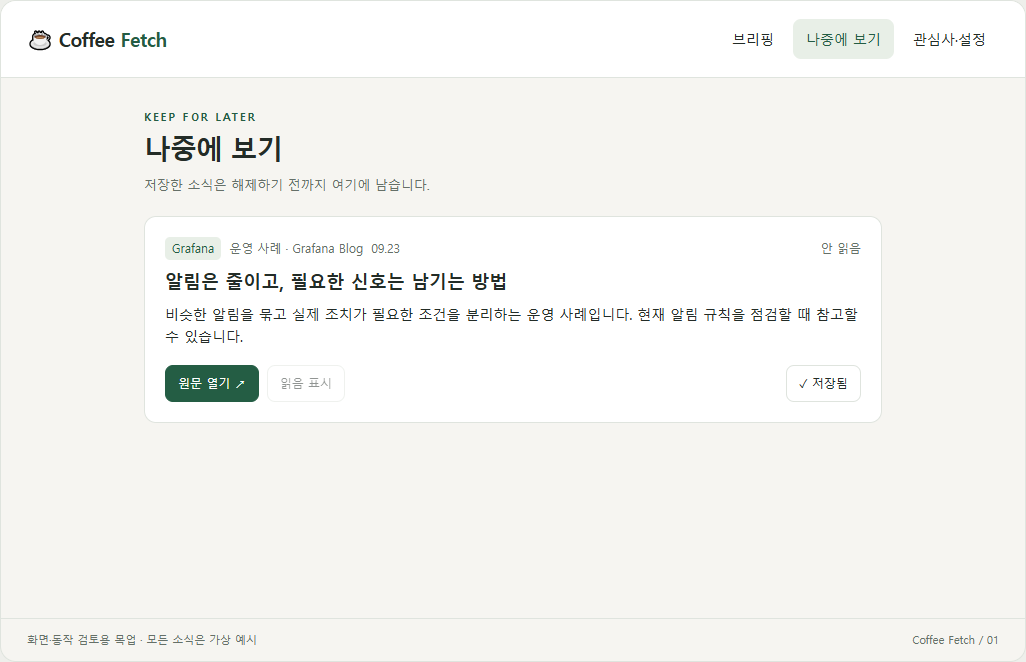
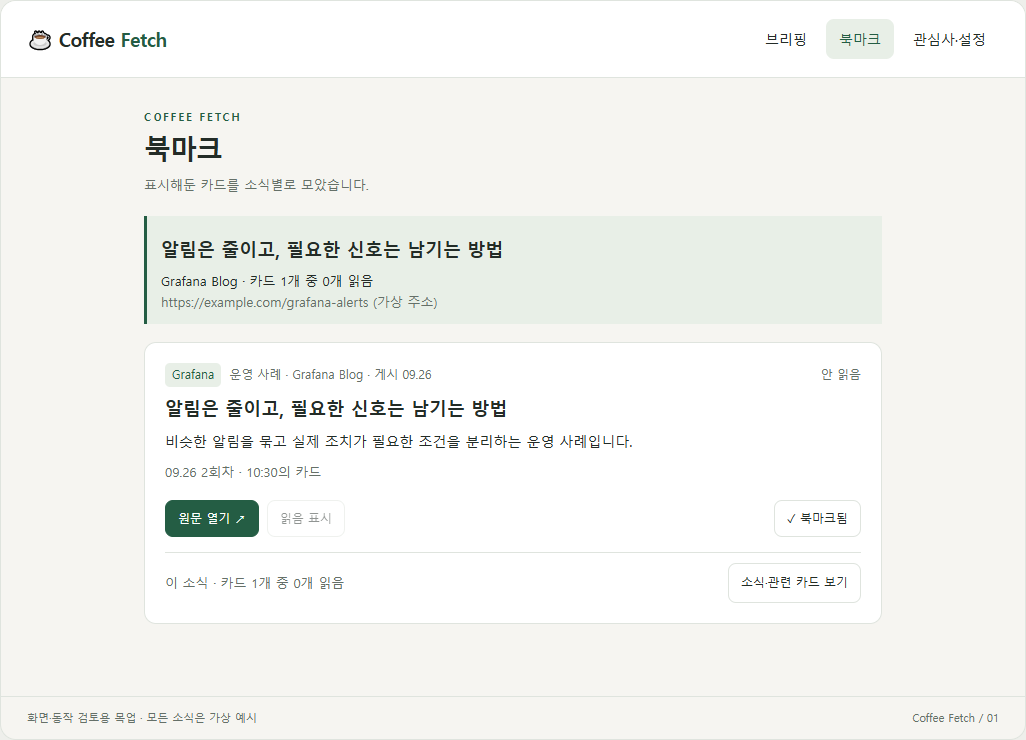
Define briefing rounds, card reading and bookmarks

diff --git a/docs/product/mockup/index.html b/docs/product/mockup/index.html
@@ -4,42 +4,55 @@
 #coffee-fetch-flow *{box-sizing:border-box}#coffee-fetch-flow button,#coffee-fetch-flow select,#coffee-fetch-flow input{font:inherit;color:inherit}#coffee-fetch-flow button{background:var(--cf-paper);border:1px solid var(--cf-line);border-radius:8px;padding:8px 12px;min-height:40px}#coffee-fetch-flow button:hover{border-color:var(--cf-green)}#coffee-fetch-flow button:disabled{opacity:.5}#coffee-fetch-flow button.cf-primary{background:var(--cf-green);color:var(--cf-on);border-color:var(--cf-green)}#coffee-fetch-flow h1{font-size:27px;letter-spacing:-1px;line-height:1.3;margin:5px 0 9px;font-weight:600}#coffee-fetch-flow h2{font-size:18px;line-height:1.5;margin:8px 0;font-weight:600}#coffee-fetch-flow p{margin:0}#coffee-fetch-flow .cf-muted{color:var(--cf-dim);font-size:13px}#coffee-fetch-flow header{padding:18px 26px;border-bottom:1px solid var(--cf-line);display:flex;align-items:center;justify-content:space-between;gap:16px;flex-wrap:wrap;background:var(--cf-paper)}#coffee-fetch-flow .cf-brand{font-weight:650;font-size:19px;letter-spacing:-.5px}#coffee-fetch-flow .cf-brand span{color:var(--cf-green)}#coffee-fetch-flow nav{display:flex;flex-wrap:wrap;gap:6px}#coffee-fetch-flow nav button{border-color:transparent;background:transparent}#coffee-fetch-flow nav button[aria-current="page"]{background:var(--cf-soft);color:var(--cf-green)}#coffee-fetch-flow main{max-width:790px;margin:auto;padding:30px 26px 22px;min-height:540px}#coffee-fetch-flow .cf-topline{display:flex;align-items:center;justify-content:space-between;gap:14px;flex-wrap:wrap;margin-bottom:20px}#coffee-fetch-flow select,#coffee-fetch-flow input[type=time]{background:var(--cf-paper);border:1px solid var(--cf-line);border-radius:8px;padding:9px;max-width:100%}#coffee-fetch-flow .cf-overline{font-size:11px;letter-spacing:1.8px;font-weight:600;color:var(--cf-green)}#coffee-fetch-flow .cf-feed{display:grid;gap:13px}#coffee-fetch-flow article{padding:20px;background:var(--cf-paper);border:1px solid var(--cf-line);border-radius:12px}#coffee-fetch-flow .cf-meta{display:flex;gap:8px;align-items:center;flex-wrap:wrap;color:var(--cf-dim);font-size:12px}#coffee-fetch-flow .cf-tag{background:var(--cf-soft);color:var(--cf-green);border-radius:5px;padding:2px 7px}#coffee-fetch-flow .cf-status{margin-left:auto}#coffee-fetch-flow .cf-actions{display:flex;align-items:center;gap:8px;flex-wrap:wrap;margin-top:17px}#coffee-fetch-flow .cf-actions button{font-size:12px;min-height:36px}#coffee-fetch-flow .cf-actions button:last-child{margin-left:auto}#coffee-fetch-flow .cf-note{padding:12px 14px;border-left:3px solid var(--cf-green);background:var(--cf-soft);margin-bottom:18px;font-size:13px}#coffee-fetch-flow fieldset{border:0;padding:0;margin:0 0 26px}#coffee-fetch-flow legend{font-weight:600;margin-bottom:10px}#coffee-fetch-flow .cf-options{display:flex;flex-wrap:wrap;gap:8px}#coffee-fetch-flow .cf-options label{display:flex;gap:7px;align-items:center;border:1px solid var(--cf-line);background:var(--cf-paper);padding:8px 12px;border-radius:8px}#coffee-fetch-flow input{accent-color:var(--cf-green)}#coffee-fetch-flow .cf-fields{display:flex;gap:20px;flex-wrap:wrap}#coffee-fetch-flow .cf-fields label{display:grid;gap:7px}#coffee-fetch-flow .cf-empty{padding:48px 18px;text-align:center;background:var(--cf-paper);border-radius:12px}#coffee-fetch-flow footer{padding:12px 26px;border-top:1px solid var(--cf-line);display:flex;gap:12px;justify-content:space-between;flex-wrap:wrap;font-size:11px;color:var(--cf-dim)}#coffee-fetch-flow .cf-toast{color:var(--cf-green);min-height:26px;margin-top:14px;font-size:13px}#coffee-fetch-flow .cf-preview{padding:20px;border:1px dashed var(--cf-green);border-radius:12px;background:var(--cf-paper);margin-bottom:18px}#coffee-fetch-flow .cf-preview h2{margin-top:0}#coffee-fetch-flow[data-density="compact"] article{padding:13px 18px}#coffee-fetch-flow[data-density="compact"] .cf-actions{margin-top:9px}
 @media(max-width:540px){#coffee-fetch-flow header{padding:16px}#coffee-fetch-flow main{padding:22px 16px}#coffee-fetch-flow nav{width:100%}#coffee-fetch-flow nav button{padding:8px;font-size:13px}#coffee-fetch-flow article{padding:16px}#coffee-fetch-flow h1{font-size:23px}#coffee-fetch-flow .cf-status{margin-left:0}#coffee-fetch-flow .cf-actions button{min-height:44px}#coffee-fetch-flow .cf-actions button:last-child{margin-left:0}}
 </style>
-<header><div class="cf-brand">☕ Coffee <span>Fetch</span></div><nav aria-label="주 메뉴"><button data-page="brief" aria-current="page">브리핑</button><button data-page="saved">나중에 보기</button><button data-page="settings">관심사·설정</button></nav></header>
+<header><div class="cf-brand">☕ Coffee <span>Fetch</span></div><nav aria-label="주 메뉴"><button data-page="brief" aria-current="page">브리핑</button><button data-page="saved">북마크</button><button data-page="settings">관심사·설정</button></nav></header>
 <main><div id="cf-content"></div><div class="cf-toast" id="cf-toast" role="status" aria-live="polite"></div></main>
 <footer><span>화면·동작 검토용 목업 · 모든 소식은 가상 예시</span><span>Coffee Fetch / 01</span></footer>
-<script>
-(()=>{
-const root=document.getElementById('coffee-fetch-flow');
-const content=root.querySelector('#cf-content');
-const samples=[
-{id:'k',tag:'Kubernetes',type:'릴리스',title:'업그레이드 전에 확인할 Kubernetes 변경 사항',summary:'사용 중인 API와 기본 설정 변경을 먼저 확인합니다. 릴리스 문서에서 운영 클러스터에 영향을 주는 항목을 골라볼 수 있는 소식입니다.',source:'Kubernetes Blog',date:'09.23'},
-{id:'g',tag:'Grafana',type:'운영 사례',title:'알림은 줄이고, 필요한 신호는 남기는 방법',summary:'비슷한 알림을 묶고 실제 조치가 필요한 조건을 분리하는 운영 사례입니다. 현재 알림 규칙을 점검할 때 참고할 수 있습니다.',source:'Grafana Blog',date:'09.23'},
-{id:'p',tag:'Python',type:'행사 발표',title:'Python 서비스의 지연 원인을 추적하는 과정',summary:'메트릭에서 이상을 찾고 트레이스로 병목을 좁히는 발표 예시입니다. 도구 선택보다 문제를 확인하는 순서에 초점을 맞춥니다.',source:'기술 행사 · 발표 영상',date:'09.22'},
-{id:'a',tag:'AI',type:'개발 사례',title:'로컬 모델로 짧은 기술 요약을 만드는 실험',summary:'정해진 자료에서 핵심 변경 사항과 출처를 추출하는 실험 예시입니다. 요약 길이와 사실 확인 기준을 함께 살펴봅니다.',source:'엔지니어링 블로그',date:'09.22'},
-{id:'c',tag:'Cloud',type:'운영 사례',title:'사용하지 않는 클라우드 자원을 찾는 점검 흐름',summary:'사용량 지표와 소유자 정보를 함께 확인하는 사례 예시입니다. 리소스를 정리하기 전에 필요한 판단 기준을 살펴봅니다.',source:'Cloud Blog',date:'09.21'}
-];
-const defaults={page:'brief',date:'today',reads:{},saved:['g'],topics:['Kubernetes','Grafana','Python'],period:'매일',time:'07:00',amount:'3',today:['k','g','p'],pending:false};
-let state={...defaults};let preview=null;
-const ui={density:'comfortable'};
-function restore(v){if(!v||typeof v!=='object')return;state={...defaults,...v};if(!Array.isArray(state.topics)||!Array.isArray(state.saved)||!Array.isArray(state.today)){state={...defaults};}if(!['brief','saved','settings'].includes(state.page))state.page='brief';}
+<script>(()=>{
+const root=document.getElementById('coffee-fetch-flow'), content=root.querySelector('#cf-content');
+const sources=[
+{id:'k',tag:'Kubernetes',type:'릴리스',title:'업그레이드 전에 확인할 Kubernetes 변경 사항',summary:'사용 중인 API와 기본 설정 변경을 먼저 확인합니다. 운영 클러스터에 영향을 주는 항목을 골라볼 수 있는 소식입니다.',source:'Kubernetes Blog',url:'https://example.com/kubernetes-release',date:'09.26'},
+{id:'g',tag:'Grafana',type:'운영 사례',title:'알림은 줄이고, 필요한 신호는 남기는 방법',summary:'비슷한 알림을 묶고 실제 조치가 필요한 조건을 분리하는 운영 사례입니다.',source:'Grafana Blog',url:'https://example.com/grafana-alerts',date:'09.26'},
+{id:'p',tag:'Python',type:'행사 발표',title:'Python 서비스의 지연 원인을 추적하는 과정',summary:'메트릭에서 이상을 찾고 트레이스로 병목을 좁히는 발표 예시입니다.',source:'기술 행사',url:'https://example.com/python-talk',date:'09.25'},
+{id:'a',tag:'AI',type:'개발 사례',title:'로컬 모델로 짧은 기술 요약을 만드는 실험',summary:'정해진 자료에서 핵심 변경 사항과 출처를 추출하는 실험 예시입니다.',source:'엔지니어링 블로그',url:'https://example.com/local-summary',date:'09.25'},
+{id:'c',tag:'Cloud',type:'운영 사례',title:'사용하지 않는 클라우드 자원을 찾는 점검 흐름',summary:'사용량 지표와 소유자 정보를 함께 확인하는 사례 예시입니다.',source:'Cloud Blog',url:'https://example.com/cloud-resources',date:'09.25'}];
+const initialRounds=[{id:'r1',date:'09.25',label:'1회차 · 07:00',ids:['c']},{id:'r2',date:'09.26',label:'1회차 · 07:00',ids:['k','a']},{id:'r3',date:'09.26',label:'2회차 · 10:30',ids:['k','g','p']}];
+const makeCards=rounds=>rounds.flatMap(r=>r.ids.map(sid=>({...sources.find(s=>s.id===sid),sid,id:r.id+'-'+sid,round:r.id})));
+let state={version:2,page:'brief',round:'r3',news:'k',rounds:initialRounds,cards:makeCards(initialRounds),reads:{'r2-k':'읽음'},bookmarks:['r3-g'],topics:['Kubernetes','Grafana','Python'],period:'매일',time:'07:00',amount:'3',pending:false};
+let preview=null; const ui={density:'comfortable'};
+function restore(s){if(s?.version===2&&Array.isArray(s.rounds)&&Array.isArray(s.cards)&&Array.isArray(s.bookmarks))state={...state,...s};}
 restore(window.openai?.widgetState?.privateContent);
-function persist(){window.openai?.setWidgetState?.({modelContent:{screen:state.page,interests:state.topics,readingRule:'원문 열기 → 읽는 중 → 직접 읽음 표시'},privateContent:state})?.catch(()=>{});}
+const escape=s=>String(s).replace(/[&<>"']/g,c=>({'&':'&amp;','<':'&lt;','>':'&gt;','"':'&quot;',"'":'&#39;'}[c]));
 const status=id=>state.reads[id]||'안 읽음';
-function card(x){const read=status(x.id);return `<article><div class="cf-meta"><span class="cf-tag">${x.tag}</span><span>${x.type} · ${x.source}</span><span>${x.date}</span><span class="cf-status">${read==='읽음'?'✓ ':read==='읽는 중'?'◔ ':''}${read}</span></div><h2>${x.title}</h2><p>${x.summary}</p><div class="cf-actions"><button class="cf-primary" data-action="open" data-id="${x.id}">원문 열기 ↗</button><button data-action="read" data-id="${x.id}" ${read==='안 읽음'?'disabled':''}>${read==='읽음'?'읽음 취소':'읽음 표시'}</button><button data-action="save" data-id="${x.id}" aria-pressed="${state.saved.includes(x.id)}">${state.saved.includes(x.id)?'✓ 저장됨':'＋ 나중에 보기'}</button></div></article>`;}
+const round=id=>state.rounds.find(r=>r.id===id);
+const latest=date=>state.rounds.filter(r=>r.date===date).at(-1);
+const related=sid=>state.cards.filter(c=>c.sid===sid);
+function progress(sid){const all=related(sid),n=all.filter(c=>status(c.id)==='읽음').length;return `카드 ${all.length}개 중 ${n}개 읽음${all.length&&n===all.length?' · 다 읽음':''}`;}
+function persist(){window.openai?.setWidgetState?.({modelContent:{screen:state.page,readingRule:'카드별 읽음, 소식별 읽은 카드 수 집계',round:state.round},privateContent:state})?.catch(()=>{});}
+function toast(t){root.querySelector('#cf-toast').textContent=t;}
+function card(x){const read=status(x.id),r=round(x.round);return `<article data-card="${x.id}"><div class="cf-meta"><span class="cf-tag">${x.tag}</span><span>${x.type} · ${x.source} · 게시 ${x.date}</span><span class="cf-status">${read==='읽음'?'✓ ':read==='읽는 중'?'◔ ':''}${read}</span></div><h2>${x.title}</h2><p>${x.summary}</p><p class="cf-muted" style="margin-top:10px">${r.date} ${escape(r.label)}의 카드</p><div class="cf-actions"><button class="cf-primary" data-action="open" data-id="${x.id}">원문 열기 ↗</button><button data-action="read" data-id="${x.id}" ${read==='안 읽음'?'disabled':''}>${read==='읽음'?'읽음 취소':'읽음 표시'}</button><button data-action="bookmark" data-id="${x.id}" aria-pressed="${state.bookmarks.includes(x.id)}">${state.bookmarks.includes(x.id)?'✓ 북마크됨':'＋ 북마크'}</button></div><div style="border-top:1px solid var(--cf-line);margin-top:15px;padding-top:10px;display:flex;gap:8px;align-items:center;flex-wrap:wrap"><span class="cf-muted">이 소식 · ${progress(x.sid)}</span><button data-action="news" data-id="${x.sid}" style="margin-left:auto;font-size:12px">소식·관련 카드 보기</button></div></article>`;}
 function render(){root.dataset.density=ui.density;root.querySelectorAll('[data-page]').forEach(b=>{if(b.dataset.page===state.page)b.setAttribute('aria-current','page');else b.removeAttribute('aria-current');});
 if(state.page==='settings'){
-content.innerHTML=`<div class="cf-topline"><div><div class="cf-overline">YOUR DAILY BREW</div><h1>관심사·설정</h1><p class="cf-muted">관심 있는 기술을, 읽을 수 있는 만큼.</p></div></div><form id="cf-settings"><fieldset><legend>관심 분야·도구</legend><div class="cf-options">${['IT','DevOps','Cloud','AI','Observability','Kubernetes','Grafana','Python'].map(t=>`<label><input type="checkbox" name="topic" value="${t}" ${state.topics.includes(t)?'checked':''}>${t}</label>`).join('')}</div></fieldset><fieldset><legend>브리핑 받기</legend><div class="cf-fields"><label>주기<select name="period">${['매일','평일','매주'].map(p=>`<option ${state.period===p?'selected':''}>${p}</option>`).join('')}</select></label><label>시각<input type="time" name="time" value="${state.time}" required></label><label>한 번에 읽을 분량<select name="amount">${['3','5','10'].map(n=>`<option value="${n}" ${state.amount===n?'selected':''}>최대 ${n}개</option>`).join('')}</select></label></div></fieldset><fieldset><legend>변경한 관심사 적용</legend><label><input type="radio" name="apply" value="next" checked> 다음 브리핑부터</label><p class="cf-muted">지금 보고 있는 브리핑은 유지합니다.</p><label style="display:block;margin-top:12px"><input type="radio" name="apply" value="now"> 지금 적용</label><p class="cf-muted">오늘 브리핑을 새로 구성합니다. 지난 날짜의 브리핑과 저장한 소식은 유지합니다.</p></fieldset><button class="cf-primary" type="submit">설정 저장</button></form>`;return;}
-const isSaved=state.page==='saved';const past=state.date==='yesterday';
-const ids=isSaved?state.saved:past?['a','c']:state.today;const list=ids.map(id=>samples.find(x=>x.id===id)).filter(Boolean);
-content.innerHTML=`<div class="cf-topline"><div><div class="cf-overline">${isSaved?'KEEP FOR LATER':'A SMALL DOSE OF TECH'}</div><h1>${isSaved?'나중에 보기':past?'지난 브리핑':'오늘의 브리핑'}</h1><p class="cf-muted">${isSaved?'저장한 소식은 해제하기 전까지 여기에 남습니다.':past?'9월 22일에 만들어진 내용입니다.':`9월 23일 수요일 · ${list.length}개의 소식으로 시작하세요.`}</p></div>${isSaved?'':`<label class="cf-muted">브리핑 날짜 <select id="cf-date"><option value="today" ${!past?'selected':''}>09.23 오늘</option><option value="yesterday" ${past?'selected':''}>09.22 화요일</option></select></label>`}</div>${!isSaved&&state.pending&&!past?'<div class="cf-note">관심사 변경을 저장했습니다. 다음 브리핑부터 적용됩니다.</div>':''}${!isSaved&&past?'<div class="cf-note">당시 소식과 요약을 유지합니다. 읽음·저장은 현재 상태를 표시합니다.</div>':''}${preview?`<div class="cf-preview"><h2>원문을 열었습니다 · 동작 예시</h2><p>실제 앱에서는 외부 원문이 새 탭으로 열립니다. 다 읽었다면 돌아와 읽음으로 표시하세요.</p><div class="cf-actions"><button class="cf-primary" data-action="finish" data-id="${preview}">다 읽었어요 · 읽음 표시</button><button data-action="back">아직 읽는 중 · 돌아가기</button></div></div>`:''}<div class="cf-feed">${list.length?list.map(card).join(''):`<div class="cf-empty"><h2>${isSaved?'저장한 소식이 없습니다':'관심사에 맞는 새 소식이 없습니다'}</h2><p class="cf-muted">${isSaved?'브리핑에서 나중에 읽고 싶은 소식을 저장해보세요.':'다음 브리핑에서 다시 확인해보세요.'}</p><button data-action="home" style="margin-top:16px">오늘의 브리핑</button></div>`}</div>`;
+content.innerHTML=`<div class="cf-topline"><div><div class="cf-overline">YOUR DAILY BREW</div><h1>관심사·설정</h1><p class="cf-muted">관심 있는 기술을, 읽을 수 있는 만큼.</p></div></div><form id="cf-settings"><fieldset><legend>관심 분야·도구</legend><div class="cf-options">${['IT','DevOps','Cloud','AI','Observability','Kubernetes','Grafana','Python'].map(t=>`<label><input type="checkbox" name="topic" value="${t}" ${state.topics.includes(t)?'checked':''}>${t}</label>`).join('')}</div></fieldset><fieldset><legend>브리핑 받기</legend><div class="cf-fields"><label>주기<select name="period">${['매일','평일','매주'].map(p=>`<option ${state.period===p?'selected':''}>${p}</option>`).join('')}</select></label><label>시각<input type="time" name="time" value="${escape(state.time)}" required></label><label>한 번에 읽을 분량<select name="amount">${['3','5','10'].map(n=>`<option value="${n}" ${state.amount===n?'selected':''}>최대 ${n}개</option>`).join('')}</select></label></div></fieldset><fieldset><legend>변경한 관심사 적용</legend><label><input type="radio" name="apply" value="next" checked> 다음 브리핑부터</label><p class="cf-muted">현재 회차는 그대로 유지합니다.</p><label style="display:block;margin-top:12px"><input type="radio" name="apply" value="now"> 지금 적용</label><p class="cf-muted">새 회차를 만들고 표시합니다. 이전 회차·읽기 기록·북마크는 남습니다.</p></fieldset><button class="cf-primary" type="submit">설정 저장</button></form>`;return;}
+let title='',sub='',controls='',body='';
+if(state.page==='news'){
+const src=sources.find(s=>s.id===state.news);title='소식과 관련 카드';sub=progress(src.id);
+body=`<div class="cf-note"><h2>${src.title}</h2><p>${src.source} · 원문 주소 기준으로 묶은 소식</p><p style="overflow-wrap:anywhere">${src.url} (가상 주소)</p></div><div class="cf-feed">${related(src.id).slice().reverse().map(card).join('')}</div>`;
+}else if(state.page==='saved'){
+title='북마크';sub='표시해둔 카드를 소식별로 모았습니다.';
+const ids=[...new Set(state.bookmarks.map(id=>state.cards.find(c=>c.id===id)?.sid).filter(Boolean))];
+body=ids.length?ids.map(sid=>{const src=sources.find(s=>s.id===sid);return `<section style="margin-bottom:24px"><div class="cf-note"><h2>${src.title}</h2><p>${src.source} · ${progress(sid)}</p><p style="overflow-wrap:anywhere" class="cf-muted">${src.url} (가상 주소)</p></div><div class="cf-feed">${related(sid).filter(c=>state.bookmarks.includes(c.id)).map(card).join('')}</div></section>`;}).join(''):'<div class="cf-empty"><h2>북마크한 카드가 없습니다</h2><p>브리핑에서 다시 보고 싶은 카드를 북마크해보세요.</p></div>';
+}else{
+const r=round(state.round)||state.rounds.at(-1);state.round=r.id;title=r.date==='09.26'?'오늘의 브리핑':'지난 브리핑';sub=`${r.date} · ${r.label} · ${r.ids.length}개의 카드`;
+controls=`<div class="cf-fields"><label class="cf-muted">날짜<select id="cf-date">${[...new Set(state.rounds.map(x=>x.date))].reverse().map(d=>`<option value="${d}" ${r.date===d?'selected':''}>${d}${d==='09.26'?' 오늘':''}</option>`).join('')}</select></label><label class="cf-muted">회차<select id="cf-round">${state.rounds.filter(x=>x.date===r.date).slice().reverse().map(x=>`<option value="${x.id}" ${r.id===x.id?'selected':''}>${escape(x.label)}${latest(r.date).id===x.id?' · 최신':''}</option>`).join('')}</select></label></div>`;
+body=(state.pending?'<div class="cf-note">관심사 변경을 저장했습니다. 다음 브리핑부터 적용됩니다.</div>':'')+`<div class="cf-feed">${state.cards.filter(c=>c.round===r.id).map(card).join('')||'<div class="cf-empty">관심사에 맞는 새 소식이 없습니다.</div>'}</div>`;
 }
-function toast(t){root.querySelector('#cf-toast').textContent=t;}
-root.addEventListener('click',e=>{const b=e.target.closest('button');if(!b)return;if(b.dataset.page){state.page=b.dataset.page;preview=null;toast('');render();persist();return;}const id=b.dataset.id;switch(b.dataset.action){case'open':if(status(id)!=='읽음')state.reads[id]='읽는 중';preview=id;toast('가상 예시이므로 외부 페이지는 열지 않습니다.');break;case'read':state.reads[id]=status(id)==='읽음'?'읽는 중':'읽음';toast('읽기 상태를 변경했습니다.');break;case'finish':state.reads[id]='읽음';preview=null;toast('읽음으로 표시했습니다.');break;case'back':preview=null;toast('읽는 중 상태로 남겼습니다.');break;case'save':state.saved=state.saved.includes(id)?state.saved.filter(v=>v!==id):[...state.saved,id];toast(state.saved.includes(id)?'나중에 보기에 저장했습니다.':'저장을 해제했습니다.');break;case'home':state.page='brief';state.date='today';break;default:return;}render();persist();});
-root.addEventListener('change',e=>{if(e.target.id==='cf-date'){state.date=e.target.value;preview=null;toast('');render();persist();}});
-root.addEventListener('submit',e=>{if(e.target.id!=='cf-settings')return;e.preventDefault();const f=new FormData(e.target);const topics=f.getAll('topic');if(!topics.length){toast('관심 분야나 도구를 하나 이상 선택해주세요.');return;}state.topics=topics;state.period=f.get('period');state.time=f.get('time');state.amount=f.get('amount');state.pending=f.get('apply')==='next';if(!state.pending){state.today=samples.filter(x=>topics.includes(x.tag)||topics.includes('IT')||topics.includes('DevOps')||topics.includes('Observability')&&['g','p'].includes(x.id)).slice(0,Number(state.amount)).map(x=>x.id);state.page='brief';state.date='today';}render();toast(state.pending?'저장했습니다. 다음 브리핑부터 적용됩니다.':'오늘 브리핑에 적용했습니다. (예시 소식 기준)');persist();});
-window.addEventListener('openai:set_globals',e=>{const v=e.detail?.globals?.widgetState?.privateContent;if(v){restore(v);preview=null;render();}});
+content.innerHTML=`<div class="cf-topline"><div><div class="cf-overline">COFFEE FETCH</div><h1>${title}</h1><p class="cf-muted">${escape(sub)}</p></div>${controls}</div>${preview?`<div class="cf-preview"><h2>원문을 열었습니다 · 동작 예시</h2><p>이 카드만 읽는 중으로 표시합니다. 다른 회차의 카드는 바뀌지 않습니다.</p><div class="cf-actions"><button class="cf-primary" data-action="finish" data-id="${preview}">다 읽었어요 · 읽음 표시</button><button data-action="back">아직 읽는 중 · 돌아가기</button></div></div>`:''}${body}`;
+}
+root.addEventListener('click',e=>{const b=e.target.closest('button');if(!b)return;if(b.dataset.page){state.page=b.dataset.page;if(state.page==='brief')state.round=state.rounds.at(-1).id;preview=null;toast('');render();persist();return;}const id=b.dataset.id;switch(b.dataset.action){case'open':if(status(id)!=='읽음')state.reads[id]='읽는 중';preview=id;toast('가상 예시이므로 외부 페이지는 열지 않습니다.');break;case'read':state.reads[id]=status(id)==='읽음'?'읽는 중':'읽음';toast('이 카드의 읽기 상태를 변경했습니다.');break;case'finish':state.reads[id]='읽음';preview=null;toast('이 카드를 읽음으로 표시했습니다.');break;case'back':preview=null;break;case'bookmark':state.bookmarks=state.bookmarks.includes(id)?state.bookmarks.filter(v=>v!==id):[...state.bookmarks,id];toast(state.bookmarks.includes(id)?'카드를 북마크했습니다.':'북마크를 해제했습니다. 카드와 읽기 기록은 유지됩니다.');break;case'news':state.page='news';state.news=id;preview=null;toast('');break;default:return;}render();persist();});
+root.addEventListener('change',e=>{if(e.target.id==='cf-date'){state.round=latest(e.target.value).id;}else if(e.target.id==='cf-round'){state.round=e.target.value;}else return;preview=null;toast('');render();persist();});
+root.addEventListener('submit',e=>{if(e.target.id!=='cf-settings')return;e.preventDefault();const f=new FormData(e.target),topics=f.getAll('topic');if(!topics.length){toast('관심 분야나 도구를 하나 이상 선택해주세요.');return;}state.topics=topics;state.period=f.get('period');state.time=f.get('time');state.amount=f.get('amount');state.pending=f.get('apply')==='next';if(!state.pending){const ids=sources.filter(x=>topics.includes(x.tag)||topics.includes('IT')||topics.includes('DevOps')||topics.includes('Observability')&&['g','p'].includes(x.id)).slice(0,Number(state.amount)).map(x=>x.id);const n=state.rounds.filter(r=>r.date==='09.26').length+1;const r={id:'r'+(state.rounds.length+1),date:'09.26',label:n+'회차 · 즉시 생성',ids};state.rounds.push(r);state.cards.push(...makeCards([r]));state.round=r.id;state.page='brief';}render();toast(state.pending?'다음 브리핑부터 적용됩니다.':'새 회차를 만들었습니다. 이전 회차는 그대로 보관됩니다.');persist();});
+window.addEventListener('openai:set_globals',e=>{if(e.detail?.globals?.widgetState?.privateContent){restore(e.detail.globals.widgetState.privateContent);preview=null;render();}});
 render();if(globalThis.Tweak){const tweak=new Tweak({container:root,onChange:render});tweak.addSelect(ui,'density',{label:'카드 간격',options:[{label:'여유 있게',value:'comfortable'},{label:'촘촘하게',value:'compact'}]});}
-})();
-</script>
+})();</script>
 </div>
 </body></html>

diff --git a/docs/product/definition.md b/docs/product/definition.md
@@ -12,8 +12,8 @@
 |---|---|
 | 초기 설정 | 관심 분야·도구, 받을 주기, 읽을 분량 |
 | 화면 | 짧은 요약 카드와 원문 링크 |
-| 행동 | 원문 열기, 명시적 읽음 표시, 나중에 보기 |
-| 기록 | 지난 브리핑과 저장한 소식 |
+| 행동 | 원문 열기, 카드별 명시적 읽음 표시, 북마크 |
+| 기록 | 지난 브리핑 회차와 북마크한 카드 |
 | 보류 | 고민 기반 추천, 저녁 회고, 학습·복습 기능, 관심 줄이기 |
 
 ## 화면과 동작
@@ -24,24 +24,30 @@
 
 | 요소·행동 | 표시·동작 |
 |---|---|
-| 브리핑 열기 | 오늘 브리핑의 소식 목록을 표시 |
-| 소식 카드 | 제목, 짧은 요약, 출처, 원문 링크, 게시일, 자료 유형, 관련 기술, 읽기·저장 상태 |
-| 원문 열기 | 외부 원문을 새 탭으로 열고 ‘안 읽음’을 ‘읽는 중’으로 변경. 이미 읽은 소식은 읽음 유지 |
+| 브리핑 열기 | 가장 최신 회차를 기본 표시. 날짜를 선택하면 해당 날짜의 최신 회차 표시 |
+| 회차 선택 | 같은 날 생성된 이전 회차도 선택 가능. 재생성은 덮어쓰지 않고 새 회차로 보관 |
+| 소식 카드 | 제목, 짧은 요약, 출처, 원문 링크, 게시일, 자료 유형, 관련 기술, 카드별 읽기·북마크 상태 |
+| 원문 열기 | 외부 원문을 새 탭으로 열고 해당 카드의 ‘안 읽음’을 ‘읽는 중’으로 변경. 이미 읽은 카드는 읽음 유지 |
 | 읽음 표시 | 사용자가 다 읽었다고 판단한 뒤 직접 ‘읽음’으로 표시 |
 | 읽음 취소 | 실수로 표시했다면 ‘읽는 중’으로 되돌림 |
-| 나중에 보기 | 소식을 저장하거나 저장 해제. 읽기 상태와 독립적으로 동작 |
+| 북마크 | 해당 카드를 북마크하거나 해제. 읽기 상태와 독립적으로 동작 |
+| 소식·관련 카드 보기 | 원문 주소로 묶인 소식의 제목·출처·주소와 관련 카드 목록, 전체 카드 수·읽은 카드 수 표시 |
 | 날짜 선택 | 오늘 이전 날짜의 브리핑을 당시 목록·순서·요약 그대로 표시 |
 
-외부 원문의 스크롤이나 완독 여부는 자동 판정하지 않습니다. 지난 브리핑의 내용은 유지하되 읽음·저장은 현재 상태를 표시합니다. 동일 소식은 어느 화면에서 열어도 동일한 읽기·저장 상태를 사용합니다.
+외부 원문의 스크롤이나 완독 여부는 자동 판정하지 않습니다. 카드별 읽기·북마크 상태는 같은 카드를 표시하는 화면 사이에서만 공유합니다. 같은 원문이라도 다른 회차의 카드는 별도로 읽음 처리합니다. 소식의 읽은 카드 수는 전체 보관 회차의 관련 카드에서 계산하고, 모두 읽었으면 소식에 ‘다 읽음’을 표시합니다.
 
-### 2. 나중에 보기
+### 2. 북마크와 소식 보기
 
 | 요소·행동 | 표시·동작 |
 |---|---|
-| 저장 목록 | 저장한 소식을 다시 찾고 원문 열기·읽음 표시 가능 |
-| 보관 | 사용자가 저장을 해제하기 전까지 유지. 읽음 처리나 관심사 변경으로 제거하지 않음 |
-| 저장 해제 | 저장 목록에서 제외. 원래 브리핑이나 읽음 상태는 유지 |
-| 빈 목록 | 저장된 소식이 없음을 표시하고 브리핑으로 이동 가능 |
+| 북마크 목록 | 북마크한 카드를 소식별로 묶어 표시 |
+| 소식 구분 | 소식 제목·출처·원문 주소를 함께 표시하여 카드가 어떤 소식인지 확인 가능 |
+| 카드 구분 | 카드가 만들어진 날짜·회차와 당시 내용을 표시 |
+| 관련 카드 | 소식 보기에서 북마크하지 않은 카드까지 포함한 전체 관련 카드와 읽기 진행 확인 |
+| 북마크 해제 | 표시만 제거. 카드·브리핑·읽음 기록은 그대로 유지 |
+| 빈 목록 | 북마크한 카드가 없음을 표시 |
+
+북마크는 카드에 붙는 표시입니다. 별도 사본을 만들지 않고 이미 보존된 카드의 당시 내용을 다시 보여줍니다. 읽음 처리·관심사 변경·재생성으로 북마크가 없어지지 않습니다.
 
 ### 3. 관심사·설정
 
@@ -51,9 +57,9 @@
 | 받을 주기·시각 | 브리핑 생성 주기와 시각 설정 |
 | 읽을 분량 | 브리핑당 최대 소식 수 설정. 부족한 소식을 억지로 채우지 않음 |
 | 다음 브리핑부터 적용 | 변경을 저장하고 현재 브리핑은 유지. 다음 생성부터 새 설정 사용 |
-| 지금 적용 | 변경한 관심사로 오늘 브리핑을 새로 구성. 지난 날짜의 브리핑과 저장한 소식 유지 |
+| 지금 적용 | 변경한 관심사로 새 회차를 생성하고 표시. 기존 모든 회차와 카드별 읽음·북마크 유지 |
 
-목업의 매일 07:00·최대 3개는 예시이며 기본값 확정이 아닙니다. 즉시 적용은 현재 검토안대로 오늘 브리핑 재구성으로 해석합니다. 생성 과정의 세부 규칙은 아래 미결정 항목에서 다룹니다.
+목업의 매일 07:00·최대 3개는 예시이며 기본값 확정이 아닙니다. 즉시 적용은 오늘의 새 회차 생성입니다. 생성 과정의 세부 규칙은 아래 미결정 항목에서 다룹니다.
 
 ### 처리 중·빈 결과·실패
 
@@ -62,7 +68,7 @@
 - 생성 중: 처리 중임을 표시하고 같은 요청의 중복 실행 방지. 기존 브리핑은 계속 읽을 수 있게 유지.
 - 새 소식 없음: 정상 처리 결과가 비어 있음을 표시.
 - 수집·요약 실패: 새 소식 없음과 구분하고 재시도 가능하게 표시. 기존 브리핑은 유지.
-- 상태 저장 실패: 읽음·저장이 완료된 것처럼 표시하지 않고 실패와 재시도 안내.
+- 상태 저장 실패: 읽음·북마크가 완료된 것처럼 표시하지 않고 실패와 재시도 안내.
 
 ## 목업 캡처
 
@@ -72,9 +78,13 @@
 
 ![오늘의 브리핑 목업](mockup/briefing.png)
 
-### 나중에 보기
+### 북마크
 
-![저장한 소식 목업](mockup/saved.png)
+![소식별 북마크 목업](mockup/saved.png)
+
+### 소식과 관련 카드
+
+![소식별 읽기 진행과 관련 카드](mockup/news.png)
 
 ### 관심사·설정
 
@@ -100,30 +110,46 @@ playwright install --with-deps chromium
 NODE_PATH=$(npm root -g) node tools/capture-mockup.cjs
 ```
 
-세 PNG를 갱신하고 읽기 상태 전환, 360px 화면의 가로 넘침, JavaScript 실행 오류를 확인합니다. WSL 설치·실행은 아직 검증하지 않았습니다.
+네 PNG를 갱신하고 회차 전환·카드별 읽음·소식별 집계·북마크·재생성 보존, 360px 화면의 가로 넘침, JavaScript 실행 오류를 확인합니다. WSL 설치·실행은 아직 검증하지 않았습니다.
 
 </details>
 
-## 기능에서 도출한 기본 데이터
+## 데이터 관계와 보관 결정
 
-아래는 기능에 필요한 정보와 관계입니다. DB 제품·테이블·컬럼·API를 확정한 설계는 아닙니다.
+2026-09-26 결정입니다. DB·언어·테이블의 상세 컬럼은 아직 선택하지 않았습니다.
 
-| 개념 | 필요한 정보 | 필요한 이유 |
+| 개념 | 필요한 정보 | 관계·규칙 |
 |---|---|---|
-| 설정 | 관심 분야·도구, 생성 주기·시각·시간대, 최대 소식 수 | 무엇을 언제 얼마나 제공할지 결정 |
-| 소식 | 식별자, 원문 주소, 제목, 출처, 게시일, 자료 유형, 관련 기술 | 원문 식별과 카드 표시 |
-| 브리핑 | 식별자, 대상 날짜, 생성 시각, 생성에 사용한 설정 | 같은 날짜의 생성 결과와 당시 기준 구분 |
-| 브리핑 항목 | 브리핑과 소식의 연결, 표시 순서, 당시 제목·요약·출처·게시일·유형·기술·원문 주소 | 이후 소식 정보가 바뀌어도 지난 브리핑 내용을 유지 |
-| 읽기·저장 상태 | 소식 식별자, 안 읽음·읽는 중·읽음, 저장 여부 | 화면을 바꿔도 상태 유지. 읽기와 보관을 별개로 관리 |
+| 설정 | 관심사, 주기·시각·시간대, 최대 분량 | 생성 시점 설정을 회차에 기록 |
+| 소식 | 식별자, 식별 기준 원문 주소, 제목·출처 | 원문 주소가 같으면 같은 소식. 다른 주소의 같은 사건은 자동 병합하지 않음 |
+| 브리핑 회차 | 식별자, 대상 날짜, 회차 번호, 생성 시각, 당시 설정 | 재생성마다 새 회차. 화면은 최신 회차 기본 표시 |
+| 카드 | 식별자, 회차 식별자, 소식 식별자, 순서, 당시 제목·요약·출처·원문 주소·게시일·유형·관련 기술 | 하나의 회차와 하나의 소식에 연결. 생성 당시 내용을 유지 |
+| 카드 읽기 상태 | 카드 식별자, 안 읽음·읽는 중·읽음 | 카드마다 독립적. 같은 카드를 다른 화면에서 보면 상태 공유 |
+| 북마크 | 카드 식별자, 북마크 시각 | 카드당 하나의 표시. 소식 관계를 통해 목록을 소식별로 묶음 |
+| 소식 읽기 진행 | 전체 관련 카드 수, 읽음 카드 수 | 카드 상태에서 계산. 모든 카드가 읽음이면 ‘다 읽음’ |
 
-관계: 브리핑 하나에 여러 항목이 들어가고, 각 항목은 소식 하나를 가리킵니다. 같은 소식이 여러 브리핑에 포함되어도 읽기·저장 상태는 공유합니다. 저장한 소식은 브리핑을 새로 구성해도 접근할 수 있어야 합니다. 개인용 첫 버전에서 로그인·다중 사용자 기능은 추가하지 않습니다.
+```mermaid
+erDiagram
+    NEWS ||--o{ CARD : contains
+    BRIEFING_ROUND ||--o{ CARD : includes
+    CARD ||--o| READING_STATE : has
+    CARD ||--o| BOOKMARK : has
+```
+
+- 원문을 계속 추적하여 기존 카드 내용을 갱신하지 않습니다. 당시 내용은 그대로 보존합니다. 외부 원문 페이지 자체를 복제·보관한다는 뜻은 아닙니다.
+- 첫 버전은 소식·카드·회차 자동 삭제 없음. 북마크 해제는 표시만 제거합니다.
+- URL 정규화의 상세 규칙은 후속 설계에서 정합니다. 의미 있는 쿼리 값까지 제거하여 서로 다른 원문을 합치지 않아야 합니다.
+- 집계의 분모는 현재 보관된 해당 소식의 모든 카드입니다. 북마크한 카드나 현재 회차의 카드만 세지 않습니다.
+- 경계 동작의 현재 가정: 모두 읽은 소식에 새 카드가 생기면 새 카드는 안 읽음이며, 소식 집계는 ‘3개 중 2개 읽음’처럼 다시 계산합니다. 별도 영구 ‘다 읽음’ 값을 저장하지 않습니다. 사용자 확인 질문에 대한 답이 오면 조정합니다.
+- 개인용 첫 버전에서 로그인·다중 사용자 기능은 추가하지 않습니다.
 
 ## 동작 확인 기준
 
-- 처음 원문을 열면 읽는 중으로 바뀌고, 직접 표시해야 읽음이 된다. 다시 열어도 읽음은 유지된다.
-- 저장 후 읽음 표시·관심사 변경·오늘 브리핑 재구성을 해도 저장 목록에 남는다. 해제하면 저장 목록에서만 빠진다.
-- 관심사 변경을 다음 회차에 적용하면 오늘 내용은 그대로다. 즉시 적용하면 오늘 내용만 새로 구성한다.
-- 지난 날짜의 카드 내용·순서는 유지되고, 같은 소식의 읽음·저장 변경은 모든 화면에 반영된다.
+- 한 카드를 열고 읽음 처리해도 같은 소식의 다른 회차 카드는 바뀌지 않는다.
+- 관련 카드가 모두 읽음일 때 소식에 다 읽음이 표시되고, 하나를 읽음 취소하면 집계가 줄어든다.
+- 북마크 목록에서 원문 소식과 해당 카드의 회차를 확인할 수 있다. 해제해도 카드와 읽음 기록은 남는다.
+- 즉시 적용으로 새 회차를 만들어도 기존 회차·카드 내용·읽음·북마크는 유지된다.
+- 날짜 선택 시 해당 날짜의 최신 회차가 기본 표시되며 이전 회차도 선택할 수 있다.
 - 생성 실패와 정상 처리 후 새 소식 없음이 구분된다. 실패 때문에 기존 브리핑이 사라지지 않는다.
 
 ## 유지할 원칙
@@ -136,16 +162,17 @@ NODE_PATH=$(npm root -g) node tools/capture-mockup.cjs
 ## 아직 결정하지 않은 것
 
 - 기본 시각·주기·분량, 주간 실행 요일, 기준 시간대와 최초 소스 목록
-- 오늘 재생성 전 회차의 열람 여부, 같은 날 여러 회차의 구분 방식
 - 설정의 주기·분량 변경 적용 시점, 즉시 생성과 예약 생성이 겹칠 때 처리
-- 같은 소식의 판별·중복 처리, 게시일 누락, 삭제된 원문 처리
+- 원문 주소 정규화 세부 규칙, 같은 소식을 다음 회차에 다시 포함할 조건, 게시일 누락·삭제된 원문 처리
 - AI 모델, 로컬 LLM 또는 외부 API 선택
 - 상세 데이터 구조, DB·기술 스택, 실행 일정과 실패·재시도 구조
 - 배포 여부와 환경: 혼자 사용할 방법을 먼저 정하고 필요할 때 결정
 
-다음은 위 기능을 기준으로 데이터 관계·보관 방식을 구체화하고, 소수의 실제 자료로 빠진 정보를 확인하는 작업입니다. 수집 기능 구현이나 DB 선택을 먼저 시작하지 않습니다.
+다음은 이 데이터 관계를 기준으로 실행 구조와 기술 선택을 검토하고, 소수의 실제 자료로 빠진 정보를 확인하는 작업입니다. 수집 기능 구현이나 DB 선택을 먼저 시작하지 않습니다.
 
 ## 변경 기록
+
+- 2026-09-26: 원문 주소 기준 소식 식별, 회차 보존·최신 기본 표시, 카드별 읽음·북마크, 소식별 진행 집계, 자동 삭제 없음 반영. 이전 소식 단위 읽음 공유 규칙을 대체.
 
 - 2026-09-23: 검토한 목업의 화면별 동작, 기본 데이터 관계, 동작 확인 기준 반영. 화면 구성은 변경 가능한 초안으로 유지.
 - 2026-09-22: 학습 목적을 한 문장으로 정리하고 배포는 추후 결정. 초기 제안은 [보관 문서](../archive/README.md)로 분리.

diff --git a/README.md b/README.md
@@ -2,9 +2,9 @@
 
 커피 한 잔과 함께 읽는 오늘의 기술 소식.
 
-관심 기술의 새 소식을 짧게 읽고 저장하는 개인 프로젝트입니다. 만들고 싶은 것을 만들면서 AI를 어떻게 활용할지 배웁니다.
+관심 기술의 새 소식을 짧게 읽고 북마크하는 개인 프로젝트입니다. 만들고 싶은 것을 만들면서 AI를 어떻게 활용할지 배웁니다.
 
-**현재: 목업을 기준으로 화면별 동작과 기본 데이터 관계를 정리했습니다. 화면 구성은 변경 가능한 초안이며 앱은 아직 구현하지 않았습니다.** 작업 파일은 WSL 저장소를 기준으로 관리합니다.
+**현재: 목업을 기준으로 화면별 동작과 회차 보관·카드별 읽음·북마크 데이터 관계를 정리했습니다. 화면 구성은 변경 가능한 초안이며 앱은 아직 구현하지 않았습니다.** 작업 파일은 WSL 저장소를 기준으로 관리합니다.
 
 ## 로드맵
 
@@ -13,9 +13,9 @@
 | 단계 | 도달할 상태 | 현재 상태와 결과물 | 관련 작업 |
 |---|---|---|---|
 | 1. 방향 정리 | 목적·첫 버전 범위 정리 | [현재 제품 정의](docs/product/definition.md) 확정. #1·#2 완료 | [#1](https://github.com/SuperSon7/coffee-fetch/issues/1), [#2](https://github.com/SuperSon7/coffee-fetch/issues/2) |
-| 2. 읽기 경험 확인 | 실제 소식으로 읽기·저장 흐름 확인 | 대화에서 목업 검토, [화면·동작 정의](docs/product/definition.md) 반영. 실제 자료 검증 필요 | [#3](https://github.com/SuperSon7/coffee-fetch/issues/3), [#4](https://github.com/SuperSon7/coffee-fetch/issues/4) |
-| 3. 수집·요약과 구조 결정 | 자료 수집·요약을 시험하고 저장·처리 구조 결정 | 미착수 | [#5](https://github.com/SuperSon7/coffee-fetch/issues/5), [#6](https://github.com/SuperSon7/coffee-fetch/issues/6) |
-| 4. 작은 버전 연결 | 설정 → 수집 → 카드 → 읽음·저장 동작 | 미착수 | [#7](https://github.com/SuperSon7/coffee-fetch/issues/7), [#8](https://github.com/SuperSon7/coffee-fetch/issues/8), [#9](https://github.com/SuperSon7/coffee-fetch/issues/9) |
+| 2. 읽기 경험 확인 | 실제 소식으로 읽기·북마크 흐름 확인 | 대화에서 목업 검토, [화면·동작 정의](docs/product/definition.md) 반영. 실제 자료 검증 필요 | [#3](https://github.com/SuperSon7/coffee-fetch/issues/3), [#4](https://github.com/SuperSon7/coffee-fetch/issues/4) |
+| 3. 수집·요약과 구조 결정 | 자료 수집·요약을 시험하고 저장·처리 구조 결정 | 데이터 관계·보관 규칙 정리. 실행 구조·기술 선택 필요 | [#5](https://github.com/SuperSon7/coffee-fetch/issues/5), [#6](https://github.com/SuperSon7/coffee-fetch/issues/6) |
+| 4. 작은 버전 연결 | 설정 → 수집 → 카드 → 읽음·북마크 동작 | 미착수 | [#7](https://github.com/SuperSon7/coffee-fetch/issues/7), [#8](https://github.com/SuperSon7/coffee-fetch/issues/8), [#9](https://github.com/SuperSon7/coffee-fetch/issues/9) |
 | 5. 직접 사용·개선 | 실제 사용과 개발 병목을 바탕으로 개선 | 미착수. 배포는 필요할 때 결정 | [#11](https://github.com/SuperSon7/coffee-fetch/issues/11), 배포 후보 [#10](https://github.com/SuperSon7/coffee-fetch/issues/10) |
 
 ## 작업 관리

diff --git a/docs/logs/work-log.md b/docs/logs/work-log.md
@@ -115,3 +115,12 @@
 - 도구: Windows 전역 Playwright와 기존 Edge. 반복 캡처 명령은 tools/capture-mockup.cjs. WSL에서는 별도 설치 필요.
 - 검증: 3개 이미지 시각 확인, 읽는 중→읽음 전환, 360px 가로 넘침·실행 오류 검사 통과.
 - 실제 집중 시간: 미측정. 개선: 네트워크 차단된 독립 렌더링으로 파일 URL 접근 없이 재현 가능한 캡처 사용.
+
+### 2026-09-26 / 데이터 결정과 목업 반영
+
+- 결정: 원문 주소 기준, 회차별 보관·최신 기본 표시, 당시 내용 유지, 카드별 읽음, 소식별 집계, 카드 북마크, 자동 삭제 없음.
+- 결과: 기존 제품 정의·README·목업 갱신, 회차 선택과 소식 관련 카드 화면 추가, PNG 4개 갱신.
+- 검증: 기존 Playwright 캡처 명령 확장. 독립 읽음·집계·북마크 해제·재생성 보존·날짜별 최신 회차·모바일 가로 넘침 검사 통과. 이미지 시각 확인과 문서 링크 검사 통과.
+- 현재 가정: 새 카드 추가 시 소식의 다 읽음 여부 재계산. 질문 답변이 오면 조정.
+- 실제 집중 시간: 미측정. 기존 캡처 도구를 재사용해 추가 도구 설치 없이 검증.
+- 다음: 실행 구조와 기술 선택. 앱 구현은 아직 진행하지 않음.

diff --git a/docs/logs/token-usage.md b/docs/logs/token-usage.md
@@ -12,3 +12,4 @@
 | 2026-09-23 | 핵심 화면 인터랙티브 목업 | 301,052 tokens (목업 작성 직전부터 조회 시점까지·본 세션) |
 | 2026-09-23 | 화면 동작·기본 데이터 관계 제품 정의 반영 | 148,843 tokens (편집 전 조회부터 종료 조회 시점까지·본 세션) |
 | 2026-09-23 | 목업 3개 화면 캡처·Playwright 도구 추가 | 242,739 tokens (캡처 도구 설치 전부터 조회 시점까지·본 세션) |
+| 2026-09-26 | 회차·카드별 읽음·소식 집계·북마크 정의 및 목업 갱신 | 547,519 tokens (편집 전 조회부터 종료 조회 시점까지·본 세션) |
